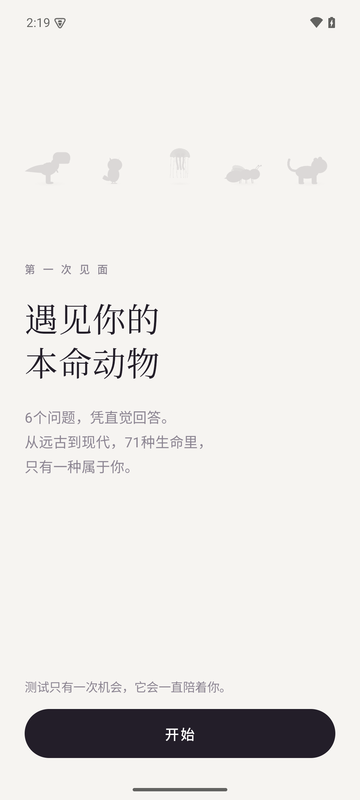
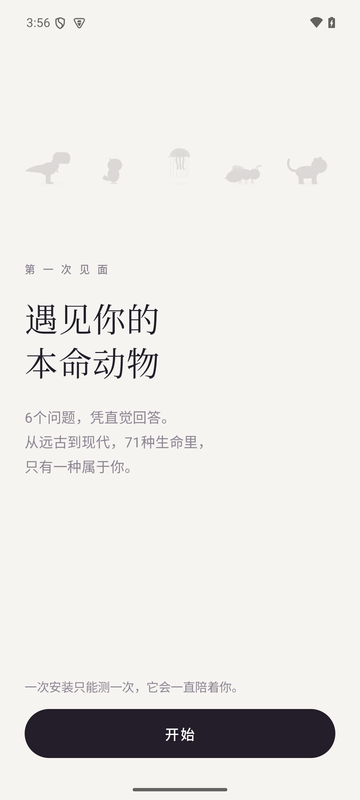
fix: say one quiz per install rather than once in a lifetime
Uninstalling or clearing data does allow a new quiz, so the old wording
promised more than the app enforces. Updates the intro, the adoption
dialog, the README and the download page for 1.0.1.

Changed region(s): [[0.0611, 0.8438, 0.6417, 0.875], [0.0917, 0.0, 0.1833, 0.0312], [0.2139, 0.0, 0.2444, 0.0312]]

diff --git a/docs/index.html b/docs/index.html
@@ -44,8 +44,8 @@ footer { color:var(--muted); font-size:12px; text-align:center; margin-top:40px;
   <p class="lead">回答 6 个问题，从远古到现代的 71 种生命里，找到只属于你的那一只。<br>
   它会住在你的手机桌面上：陪你走、陪你睡，偶尔飞过、游过屏幕。</p>
 
-  <a class="download" href="https://github.com/fyy0619-cell/BenMingShou/releases/download/v1.0.0/BenMingShou-1.0.0.apk" download>下载安卓安装包</a>
-  <div class="meta">v1.0.0 · 2.1 MB · Android 10 及以上</div>
+  <a class="download" href="https://github.com/fyy0619-cell/BenMingShou/releases/download/v1.0.1/BenMingShou-1.0.1.apk" download>下载安卓安装包</a>
+  <div class="meta">v1.0.1 · 2.1 MB · Android 10 及以上</div>
 
   <h2>安 装 步 骤</h2>
   <ol>
@@ -60,7 +60,7 @@ footer { color:var(--muted); font-size:12px; text-align:center; margin-top:40px;
   </div>
   <div class="note">
     <b>校验安装包</b>（可选）：SHA-256
-    <code>5a1c9e8464acb85418ac4b86fb0c303396c792f0c1d3a039137f98fb5d4e9fb1</code>
+    <code>2bf523ba03e1f7075c9039b5a9914ca23739f44d8679f8df0dd46b0918b42e51</code>
   </div>
   <footer>© 2026 fyy0619-cell</footer>
 </main>

diff --git a/app/src/main/kotlin/io/github/fyy0619cell/deskpet/ui/quiz/QuizScreens.kt b/app/src/main/kotlin/io/github/fyy0619cell/deskpet/ui/quiz/QuizScreens.kt
@@ -75,7 +75,7 @@ fun IntroScreen(speciesCount: Int, questionCount: Int, animate: Boolean = true, 
             color = Palette.Muted,
         )
         Spacer(Modifier.weight(1.4f))
-        Text("测试只有一次机会，它会一直陪着你。", style = MaterialTheme.typography.bodyMedium, color = Palette.Muted)
+        Text("一次安装只能测一次，它会一直陪着你。", style = MaterialTheme.typography.bodyMedium, color = Palette.Muted)
         Spacer(Modifier.height(16.dp))
         PillButton("开始", onStart)
     }

diff --git a/app/src/main/kotlin/io/github/fyy0619cell/deskpet/ui/quiz/QuizFlow.kt b/app/src/main/kotlin/io/github/fyy0619cell/deskpet/ui/quiz/QuizFlow.kt
@@ -107,7 +107,7 @@ fun QuizFlow(onAdopt: (Adoption) -> Unit) {
             onDismissRequest = { confirming = false },
             containerColor = Palette.Card,
             title = { Text("确定是它了吗？") },
-            text = { Text("带它回家之后，就再也不能更换了。") },
+            text = { Text("一次安装只能测一次。带它回家之后，就不能再换了。") },
             confirmButton = {
                 TextButton(onClick = {
                     confirming = false

diff --git a/README.md b/README.md
@@ -10,7 +10,7 @@
 
 ## 它能做什么
 
-- **一次性测验**：6 道情境题，没有标准答案。结果从 71 种动物中产生：霸王龙、三叶虫、渡渡鸟、猛犸象，也可能是苍蝇、蚯蚓或蓝鲸。测验只有一次机会。
+- **一次性测验**：6 道情境题，没有标准答案。结果从 71 种动物中产生：霸王龙、三叶虫、渡渡鸟、猛犸象，也可能是苍蝇、蚯蚓或蓝鲸。一次安装只能测一次。
 - **每一只都不一样**：毛色、体型和花纹由你专属的随机种子决定。另有 1% 的概率出现白化、金色或黑化的稀有个体。
 - **桌面陪伴**：宠物悬浮在所有应用之上。走兽会散步，鸟和昆虫会起飞再落下，鱼和水母在屏幕上漂。点它会叫，按住可以拖动，长按回到应用。
 - **养成**：饱食、清洁、心情和等级。每个物种吃的东西不同，熊猫吃竹子，霸王龙吃肉排。
